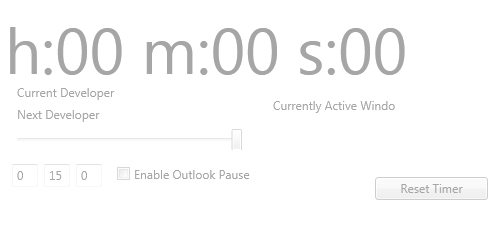
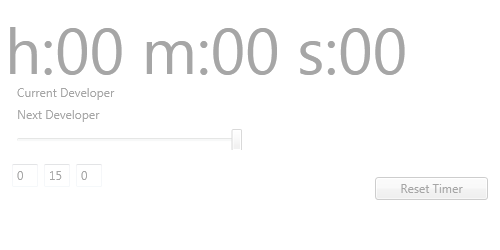
removed module used to find Outlook active window
removed referenced tests as well.

Changed region(s): [[0.21, 0.672, 0.51, 0.728], [0.54, 0.392, 0.81, 0.448]]

diff --git a/DeveloperTimer/MainWindow.xaml b/DeveloperTimer/MainWindow.xaml
@@ -11,8 +11,6 @@
             </Label.Background>
         </Label>
         <Button Content="Reset Timer" Height="23" HorizontalAlignment="Right" Margin="0,0,12,50" Name="btnReset" VerticalAlignment="Bottom" Width="113" Click="btnReset_Click" />
-        <Label Content="Currently Active Windo" Height="28" HorizontalAlignment="Left" Margin="268,92,0,0" Name="lblCurrentlyActiveWindow" VerticalAlignment="Top" />
-        <CheckBox Content="Enable Outlook Pause" Height="21" Margin="117,166,0,0" Name="chkOutlookPause" VerticalAlignment="Top" IsChecked="False" HorizontalAlignment="Left" Width="149" />
         <TextBox Height="23" HorizontalAlignment="Left" Margin="12,164,0,0" Name="txtHours" VerticalAlignment="Top" Width="26" Text="0" />
         <TextBox Height="23" HorizontalAlignment="Left" Margin="44,164,0,0" Name="txtMinutes" VerticalAlignment="Top" Width="26" Text="0" />
         <TextBox Height="23" HorizontalAlignment="Left" Margin="76,164,0,0" Name="txtSeconds" VerticalAlignment="Top" Width="26" Text="0" />

diff --git a/DeveloperTimer.Tests/Explortitory.cs b/DeveloperTimer.Tests/Explortitory.cs
@@ -17,7 +17,7 @@ namespace DeveloperTimer.Tests
         public void ConstructorTest()
         {
             var timeController = CreateTimeControllerParts(() => touDate).Item1;
-            var mainWindow = BuildMainWindow(null, timeController);
+            var mainWindow = BuildMainWindow(timeController);
             WpfApprovals.Verify(mainWindow);
         }
 
@@ -26,7 +26,7 @@ namespace DeveloperTimer.Tests
         {
             var timeController = CreateTimeControllerParts(() => touDate).Item1;
 
-            var mainWindow = BuildMainWindow(null, timeController);
+            var mainWindow = BuildMainWindow(timeController);
             mainWindow.ResetTimer();
             WpfApprovals.Verify(mainWindow);
         }
@@ -37,7 +37,7 @@ namespace DeveloperTimer.Tests
             var timeControllerParts = CreateTimeControllerParts(() => touDate);
             var timeController = timeControllerParts.Item1;
 
-            var mainWindow = BuildMainWindow(GetDefaultWindowTitleFinder(), timeController);
+            var mainWindow = BuildMainWindow(timeController);
             mainWindow.ResetTimer();
 
             timeControllerParts.Item2[0](timeController, null);
@@ -50,12 +50,10 @@ namespace DeveloperTimer.Tests
             var dateTimes = GetInitialDateTimes();
             dateTimes.Enqueue(touDate.AddMinutes(2));
 
-            var windowTitleFinder = GetDefaultWindowTitleFinder();
-
             var timeControllerParts = CreateTimeControllerParts(dateTimes.Dequeue);
             var timeController = timeControllerParts.Item1;
 
-            var mainWindow = BuildMainWindow(windowTitleFinder, timeController);
+            var mainWindow = BuildMainWindow(timeController);
             mainWindow.ResetTimer();
             timeControllerParts.Item2[0](timeController, null);
 
@@ -68,12 +66,10 @@ namespace DeveloperTimer.Tests
             var dateTimes = GetInitialDateTimes(); 
             dateTimes.Enqueue(touDate.AddMinutes(17).AddSeconds(22));
 
-            var windowTitleFinder = GetDefaultWindowTitleFinder();
-
             var timeControllerParts = CreateTimeControllerParts(dateTimes.Dequeue);
             var timeController = timeControllerParts.Item1;
 
-            var mainWindow = BuildMainWindow(windowTitleFinder, timeController);
+            var mainWindow = BuildMainWindow(timeController);
             mainWindow.ResetTimer();
             timeControllerParts.Item2[0](timeController, null);
 
@@ -101,16 +97,9 @@ namespace DeveloperTimer.Tests
             return dateTimes;
         }
 
-        private static IGetWindowTitle GetDefaultWindowTitleFinder(string processname = "Window Finder version 3.14")
+        private static MainWindow BuildMainWindow(ITimeController timeController)
         {
-            var windowTitleFinder = MockRepository.GenerateStub<IGetWindowTitle>();
-            windowTitleFinder.Stub(wf => wf.GetProcessExeName()).Return(processname);
-            return windowTitleFinder;
-        }
-
-        private static MainWindow BuildMainWindow(IGetWindowTitle defaultWindowTitleFinder, ITimeController timeController)
-        {
-            var mainWindow = new MainWindow(defaultWindowTitleFinder, timeController, IgnoreQueryUserBeforeResetTimer(), () => false);
+            var mainWindow = new MainWindow(timeController, IgnoreQueryUserBeforeResetTimer(), () => false);
             return mainWindow;
         }
 

diff --git a/DeveloperTimer/MainWindow.xaml.cs b/DeveloperTimer/MainWindow.xaml.cs
@@ -21,24 +21,22 @@ namespace DeveloperTimer
 
         DateTime endTime;
         int developerIndex = -1;
-        private readonly IGetWindowTitle windowSearcher;
 
         private readonly Func<string, MessageBoxResult> queryUserBeforeResetTimer;
         private readonly Func<bool> isTopMost;
         private readonly ITimeController timeController;
-        private ItemRing<string> nameRing;
+        private readonly ItemRing<string> nameRing;
 
         public MainWindow()
-            : this(new GetWindowTitle(), new TimeController(500), msg => MessageBox.Show(msg, "Diligence", MessageBoxButton.YesNo), ()=> true)
+            : this(new TimeController(500), msg => MessageBox.Show(msg, "Diligence", MessageBoxButton.YesNo), ()=> true)
         {
         }
 
-        public MainWindow(IGetWindowTitle windowTitleFinder, ITimeController timeController, Func<string, MessageBoxResult> queryUserBeforeResetTimer, Func<bool> isTopMost)
+        public MainWindow(ITimeController timeController, Func<string, MessageBoxResult> queryUserBeforeResetTimer, Func<bool> isTopMost)
         {
             this.queryUserBeforeResetTimer = queryUserBeforeResetTimer;
             this.isTopMost = isTopMost;
             this.timeController = timeController;
-            windowSearcher = windowTitleFinder;
 
             nameRing = new ItemRing<string>();
 
@@ -104,13 +102,6 @@ namespace DeveloperTimer
 
         private void UpdateUI(Label lblTime)
         {
-            var titleString = windowSearcher.GetProcessExeName();
-            lblCurrentlyActiveWindow.Content = titleString;
-            if (ShouldPause(titleString))
-            {
-                endTime = endTime.Add(new TimeSpan(5000000));
-            }
-
             var span = endTime - timeController.Now;
             lblTime.Content = String.Format("h:{0} m:{1} s:{2}", span.Hours, span.Minutes, span.Seconds);
 
@@ -125,11 +116,6 @@ namespace DeveloperTimer
             {
                 MaximizeWindow();
             }
-        }
-
-        private bool ShouldPause(string titleString)
-        {
-            return titleString.StartsWith("OUTLOOK.EXE") && chkOutlookPause.IsChecked.GetValueOrDefault();
         }
 
         private void btnReset_Click(object sender, RoutedEventArgs e)
